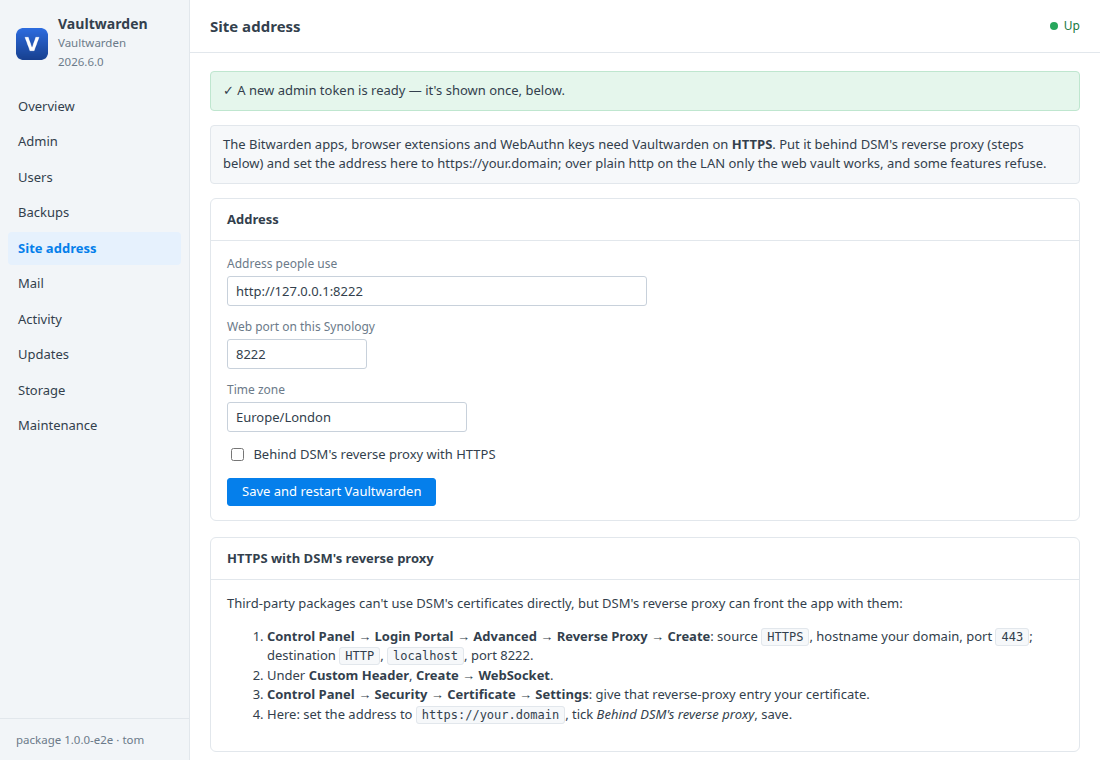
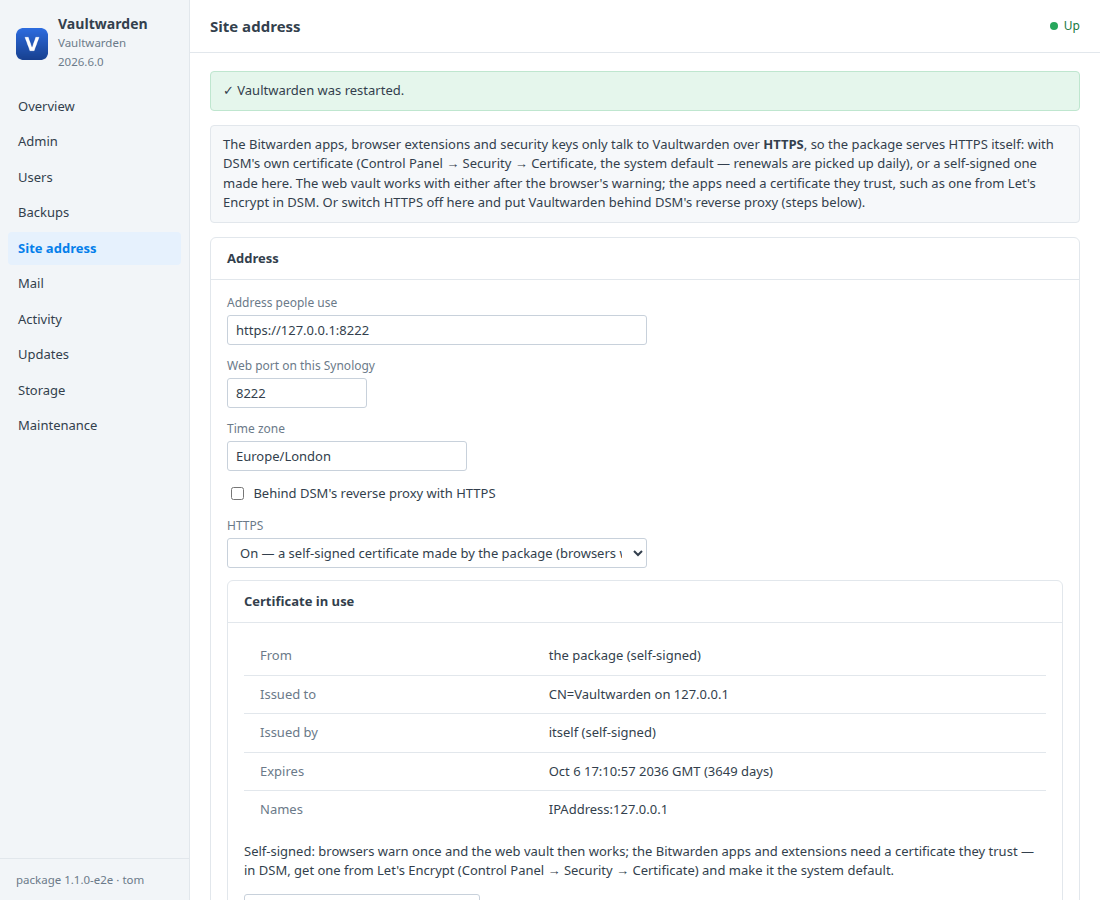
1.1.0: HTTPS served by the package, with DSM's certificate or a self-signed one
nginx (proxy service) in front of Vaultwarden. TLS=dsm reads the NAS's
system-default certificate at every start and daily (renewals follow);
TLS=self makes one for the address; TLS=off is plain HTTP for DSM's
reverse proxy. Wizard page, Site address select with the certificate in
use and a refresh button, e2e steps for all three. Failed sign-ins kept in
a file across restarts; the users' enabled/2FA flags read correctly.

diff --git a/ui/app.js b/ui/app.js
@@ -49,6 +49,25 @@
     show: function () { P.loadLog("failed", "activity-log"); }, tick: function () { P.loadLog("failed", "activity-log"); },
     badge: function (st) { var n = ((st.app || {}).failed || {}).last_hour || 0; $("badge-activity").hidden = !(n >= 5); $("badge-activity").textContent = String(n); }
   });
+  P.register("site", {
+    fill: function (st) { var t = (st.app && st.app.tls) || {}; $("set-tls").value = t.mode || "dsm"; },
+    values: function () { return { tls: $("set-tls").value }; },
+    render: function (st) {
+      var t = (st.app && st.app.tls) || {}, c = t.cert, tb = $("tls-info"), note = $("tls-note"), acts = $("tls-actions"); P.clear(tb); P.clear(acts);
+      $("tls-card").hidden = t.mode === "off";
+      if (t.mode === "off") return;
+      if (!c) { P.kv(tb, "Certificate", "none yet — it's made or read when Vaultwarden starts"); note.textContent = ""; return; }
+      P.kv(tb, "From", t.source === "dsm" ? "DSM (the system default certificate)" : "the package (self-signed)");
+      P.kv(tb, "Issued to", c.subject || "–"); P.kv(tb, "Issued by", c.self_signed ? "itself (self-signed)" : (c.issuer || "–"));
+      P.kv(tb, "Expires", (c.expires || "–") + (typeof c.days_left === "number" ? " (" + (c.days_left < 0 ? "expired" : c.days_left + " days") + ")" : ""));
+      if (c.names) P.kv(tb, "Names", c.names.replace(/,/g, ", "));
+      note.textContent = t.mode === "dsm" && t.source === "self" ? "DSM's certificate wasn't found on this system, so a self-signed one is in use."
+        : c.self_signed ? "Self-signed: browsers warn once and the web vault then works; the Bitwarden apps and extensions need a certificate they trust — in DSM, get one from Let's Encrypt (Control Panel → Security → Certificate) and make it the system default."
+        : "Browsers and the Bitwarden apps trust this certificate as long as they reach Vaultwarden by one of its names.";
+      acts.appendChild(P.btn(t.mode === "dsm" ? "Read DSM's certificate again" : "Make a new self-signed certificate", "", function () { P.act("refreshcert", {}, t.mode === "dsm" ? null : "Make a new self-signed certificate? Browsers will warn once more."); }));
+    }
+  });
+  $("set-tls").addEventListener("change", function () { $("set-url").dataset.touched = "1"; var u = $("set-url").value.trim(); if ($("set-tls").value !== "off" && /^http:\/\//.test(u)) $("set-url").value = "https://" + u.slice(7); });
   P.register("secretNote", function (s) { return s.kind === "admin" ? "Open the admin page and paste it as the token. Keep it in your password manager." : ""; });
   P.register("storage", { render: function (app, st, box) { P.clear(box); var c = P.el("div", null, "card"); var h = P.el("h2", "Inside the data volume"); c.appendChild(h); var tbl = P.el("table"), tb = P.el("tbody"); tbl.appendChild(tb); c.appendChild(tbl);
     [["Database (db.sqlite3)", app["db.sqlite3"]], ["Attachments", app.attachments], ["Sends", app.sends], ["Icon cache (rebuilt as needed)", app.icon_cache]].forEach(function (p) { P.kv(tb, p[0], P.mb(p[1] || 0), true); }); box.appendChild(c); } });

diff --git a/ui/app-settings-fields.html b/ui/app-settings-fields.html
@@ -1,0 +1,6 @@
+        <label class="f"><span>HTTPS</span><select id="set-tls">
+          <option value="dsm">On — DSM's certificate (the system default)</option>
+          <option value="self">On — self-signed, made by the package</option>
+          <option value="off">Off — plain HTTP, behind DSM's reverse proxy only</option>
+        </select></label>
+        <div id="tls-card" class="card" style="margin-top:10px"><h2>Certificate in use</h2><div class="in"><table><tbody id="tls-info"></tbody></table><p id="tls-note"></p><p id="tls-actions"></p></div></div>

diff --git a/README.md b/README.md
@@ -4,17 +4,32 @@ A DSM 7 package that installs [Vaultwarden](https://github.com/dani-garcia/vault
 — the lightweight server for the Bitwarden apps — in Container Manager, with a
 **Vaultwarden** window in DSM for the things that otherwise need a shell:
 the admin token, locked-out users, sign-ups, backups, mail, updates, and a
-clean removal. Built on the [DSM app chassis](https://github.com/tombruton87/dsm-app-chassis).
+clean removal. It serves **HTTPS itself**, with DSM's own certificate. Built on the [DSM app chassis](https://github.com/tombruton87/dsm-app-chassis).
 
 ## Download
 
-**[Download vaultwarden-1.0.0-1.spk](https://github.com/tombruton87/vaultwarden-dsm/releases/download/v1.0.0/vaultwarden-1.0.0-1.spk)** — or see [Releases](https://github.com/tombruton87/vaultwarden-dsm/releases/latest) for the newest.
+**[Download vaultwarden-1.1.0-1.spk](https://github.com/tombruton87/vaultwarden-dsm/releases/download/v1.1.0/vaultwarden-1.1.0-1.spk)** — or see [Releases](https://github.com/tombruton87/vaultwarden-dsm/releases/latest) for the newest.
 Install: Package Center → Manual Install → the `.spk` (DSM 7.2.1+; Container
 Manager is installed first if missing). The wizard asks for the NAS's address,
-a port, a time zone and whether sign-ups are open. Then open the address,
-create your account, and point the Bitwarden apps at it. For the apps and
-browser extensions Vaultwarden must be on HTTPS: the Site address tab has the
-DSM reverse-proxy steps.
+a port, a time zone, whether sign-ups are open, and how to do HTTPS. Then open
+the address, create your account, and point the Bitwarden apps at it.
+
+## HTTPS
+
+The Bitwarden apps and browser extensions refuse plain HTTP, so the package
+puts nginx in front of Vaultwarden and serves HTTPS on the chosen port:
+
+- **DSM's certificate** (default): the system-default certificate from
+  Control Panel → Security → Certificate, read from the NAS at every start
+  and once a day, so a Let's Encrypt renewal is picked up by itself.
+- **Self-signed**: a certificate made by the package for the NAS's address.
+  Browsers warn once; the web vault then works. The apps need a trusted
+  certificate, so get one from Let's Encrypt in DSM and make it the default.
+- **Off**: plain HTTP, for people who put Vaultwarden behind DSM's reverse
+  proxy themselves (the Site address tab has the steps).
+
+The Site address tab shows the certificate in use (issuer, names, expiry)
+and can read DSM's again or make a new self-signed one.
 
 ## The window
 
@@ -24,7 +39,7 @@ DSM reverse-proxy steps.
 | **Admin** | The admin page's token (made at install, hashed in the container, shown once; make a new one if lost). Sign-ups, invitations and password hints on/off. |
 | **Users** | Every account with status, 2FA, items, attachments, last activity. **Remove 2FA** for someone locked out, disable/enable, invite, delete. |
 | **Backups** | A consistent SQLite copy plus attachments, sends, keys and admin settings in one tar; nightly, save, restore, retention. |
-| **Site address** | URL, port, time zone; HTTPS behind DSM's reverse proxy with the steps. |
+| **Site address** | URL, port, time zone; HTTPS with DSM's certificate or a self-signed one, the certificate in use; or plain HTTP behind DSM's reverse proxy, with the steps. |
 | **Mail** | Which SMTP server is set; send a test email. |
 | **Activity** | Failed sign-ins by address from Vaultwarden's log; a DSM notification on a burst. |
 | **Updates** | A newer Vaultwarden image (backup first) or package, applied from inside DSM. |
@@ -48,10 +63,10 @@ Administrators can do everything; a DSM user the app is granted to gets a read-o
 ```
 chassis/          the DSM app chassis (git submodule)
 package.conf      name, title, services, volumes, images, port, texts
-app/compose.yaml  Vaultwarden; data in the vaultwarden_data volume
-setup/app.sh      the hooks: admin token (argon2), backups (sqlite3 .backup), admin API, failed sign-ins
+app/compose.yaml  Vaultwarden and nginx in front (HTTPS); data in the vaultwarden_data volume
+setup/app.sh      the hooks: HTTPS (DSM's or a self-signed certificate), admin token (argon2), backups (sqlite3 .backup), admin API, failed sign-ins
 ui/               Admin, Users, Mail, Activity tabs; CGI validation of their actions
-wizard/           the Accounts page of the install wizard
+wizard/           the Accounts and HTTPS pages of the install wizard
 tests/            steps for the chassis harness
 ```
 

diff --git a/CHANGELOG.md b/CHANGELOG.md
@@ -1,3 +1,15 @@
+## 1.1.0 — 2026-10-09
+
+- HTTPS is served by the package itself: nginx in front of Vaultwarden with
+  DSM's system-default certificate (read from the NAS, refreshed daily so
+  renewals follow) or a self-signed one made at install. Chosen in the
+  install wizard and on the Site address tab, which also shows the
+  certificate in use, with a button to read DSM's again or make a new
+  self-signed one. Plain HTTP behind DSM's reverse proxy remains an option.
+- Failed sign-ins are kept for seven days in a file, so they survive a
+  restart or a new admin token.
+- Disabled accounts were shown as enabled; invited accounts as having 2FA.
+
 # Changelog
 
 ## 1.0.0
